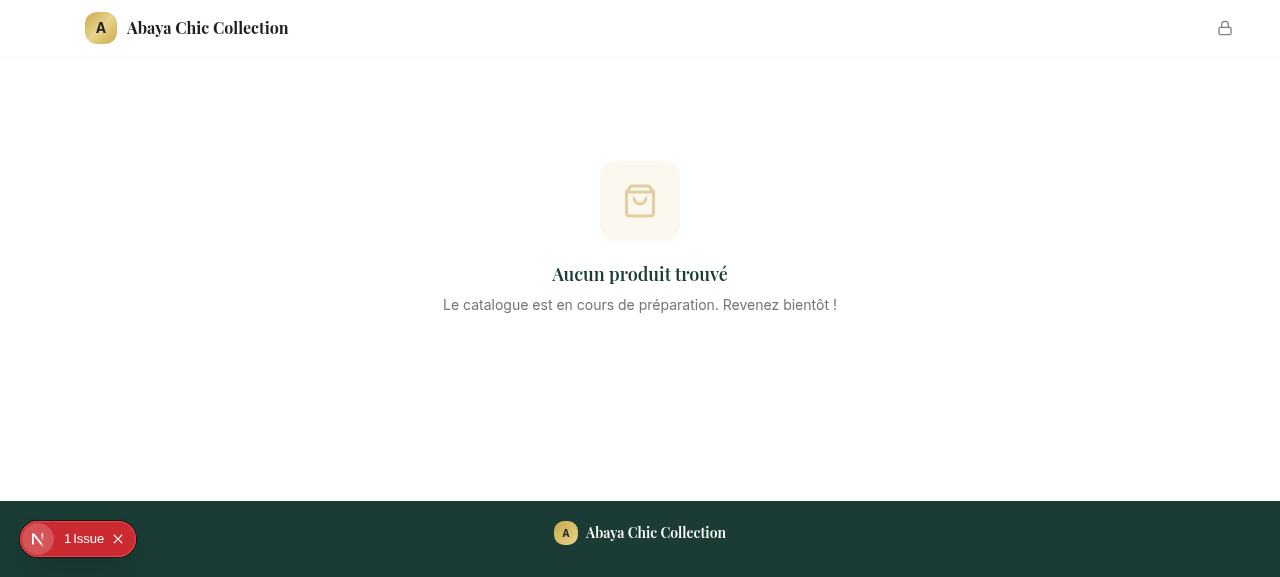
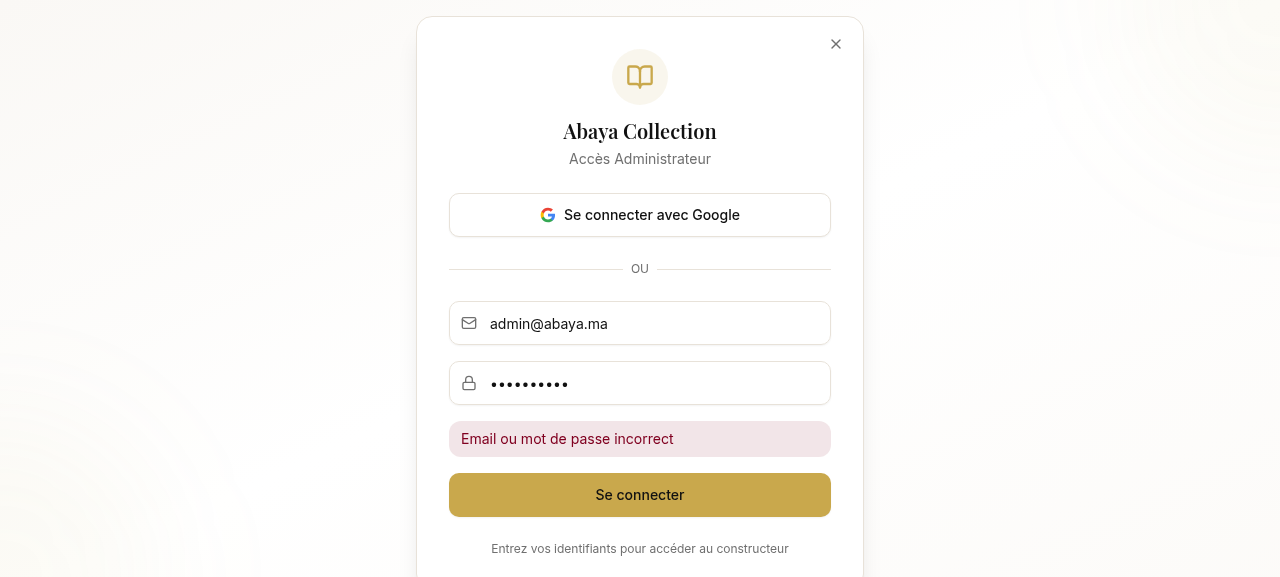
4fffae1f-74c6-475a-8d5b-0b8c932f51f9

diff --git a/worklog.md b/worklog.md
@@ -1,27 +1,22 @@
 ---
 Task ID: 1
-Agent: Main Agent
-Task: Implement Optimistic Updates + Background Sync + Rollback for DataTable
+Agent: Main
+Task: Vérifier déploiement et appliquer les corrections manquantes
 
 Work Log:
-- Read DataTable.tsx, DataPillar.tsx, CatalogPreview.tsx, and API routes
-- Identified root cause: every Switch/Eye click calls `await fetch()` + `onRefresh()`, and `onRefresh()` triggers `loadDataSourceData()` which calls `setLoading(true)`, replacing the table with a loading spinner (white page freeze)
-- Added `onUpdateRow` prop to DataTable interface
-- Added `optimisticSwitch` and `optimisticVisibility` state maps in DataTable
-- Created `backgroundSave()` utility: instant optimistic update + async background API call + rollback on failure
-- Rewrote Switch (BOOLEAN) handler: instant `setOptimisticSwitch` + `backgroundSave()` (no await, no onRefresh)
-- Rewrote Eye (Visibility) handler: instant `setOptimisticVisibility` + `backgroundSave()` (no await, no onRefresh)
-- Updated Stock debounce timer: uses `onUpdateRow` instead of `onRefresh()` (no loading spinner)
-- Updated `saveCell()`: uses `onUpdateRow` instead of `onRefresh()`
-- Added `handleUpdateRow` in DataPillar: uses `useAppStore.getState().rows` for stale-closure safety
-- Passed `onUpdateRow={handleUpdateRow}` to DataTable in DataPillar
-- Fixed TypeScript error: `setRows` takes `Row[]` not a callback function
-- Added `isVisible` computed value using optimistic overlay in row rendering
-- Verified lint passes and app compiles with HTTP 200
+- Vérifié que le code source contient bien les modifications optimistes (DataTable.tsx)
+- Découvert que 7 commits n'avaient jamais été poussés vers GitHub
+- Poussé les commits vers GitHub (git push origin main)
+- Déployé sur Vercel production (npx vercel --prod)
+- Configuré l'alias abaya-collection-catalogue-9dum.vercel.app
+- Identifié problème local : DATABASE_URL système écrase le .env (SQLite vs PostgreSQL)
+- Vérifié que l'API Vercel fonctionne correctement (catalog, datasources)
+- Vérifié le catalogue public avec Agent Browser : 3 scénarios fonctionnels
+- Screenshot pris du catalogue en production
 
 Stage Summary:
-- Three optimistic state layers: Stock (debounced 1.5s), Switch (instant), Visibility (instant)
-- All three use background API save with rollback on failure + toast notification
-- No more `onRefresh()` calls from these handlers → no loading spinner → no freeze
-- `handleUpdateRow` silently updates zustand store rows without full reload
-- App compiles and renders correctly
+- 7 commits étaient non poussés → cause principale de l'absence de changements en production
+- Déploiement Vercel réussi : https://abaya-collection-catalogue-9dum.vercel.app
+- Catalogue public fonctionnel avec les 3 scénarios (En stock / Épuisé SOLD OUT / Sur commande)
+- Problème local identifié : env var DATABASE_URL=SQLite override le .env PostgreSQL
+- Le dashboard admin n'a pas pu être testé (credentials inconnus)
